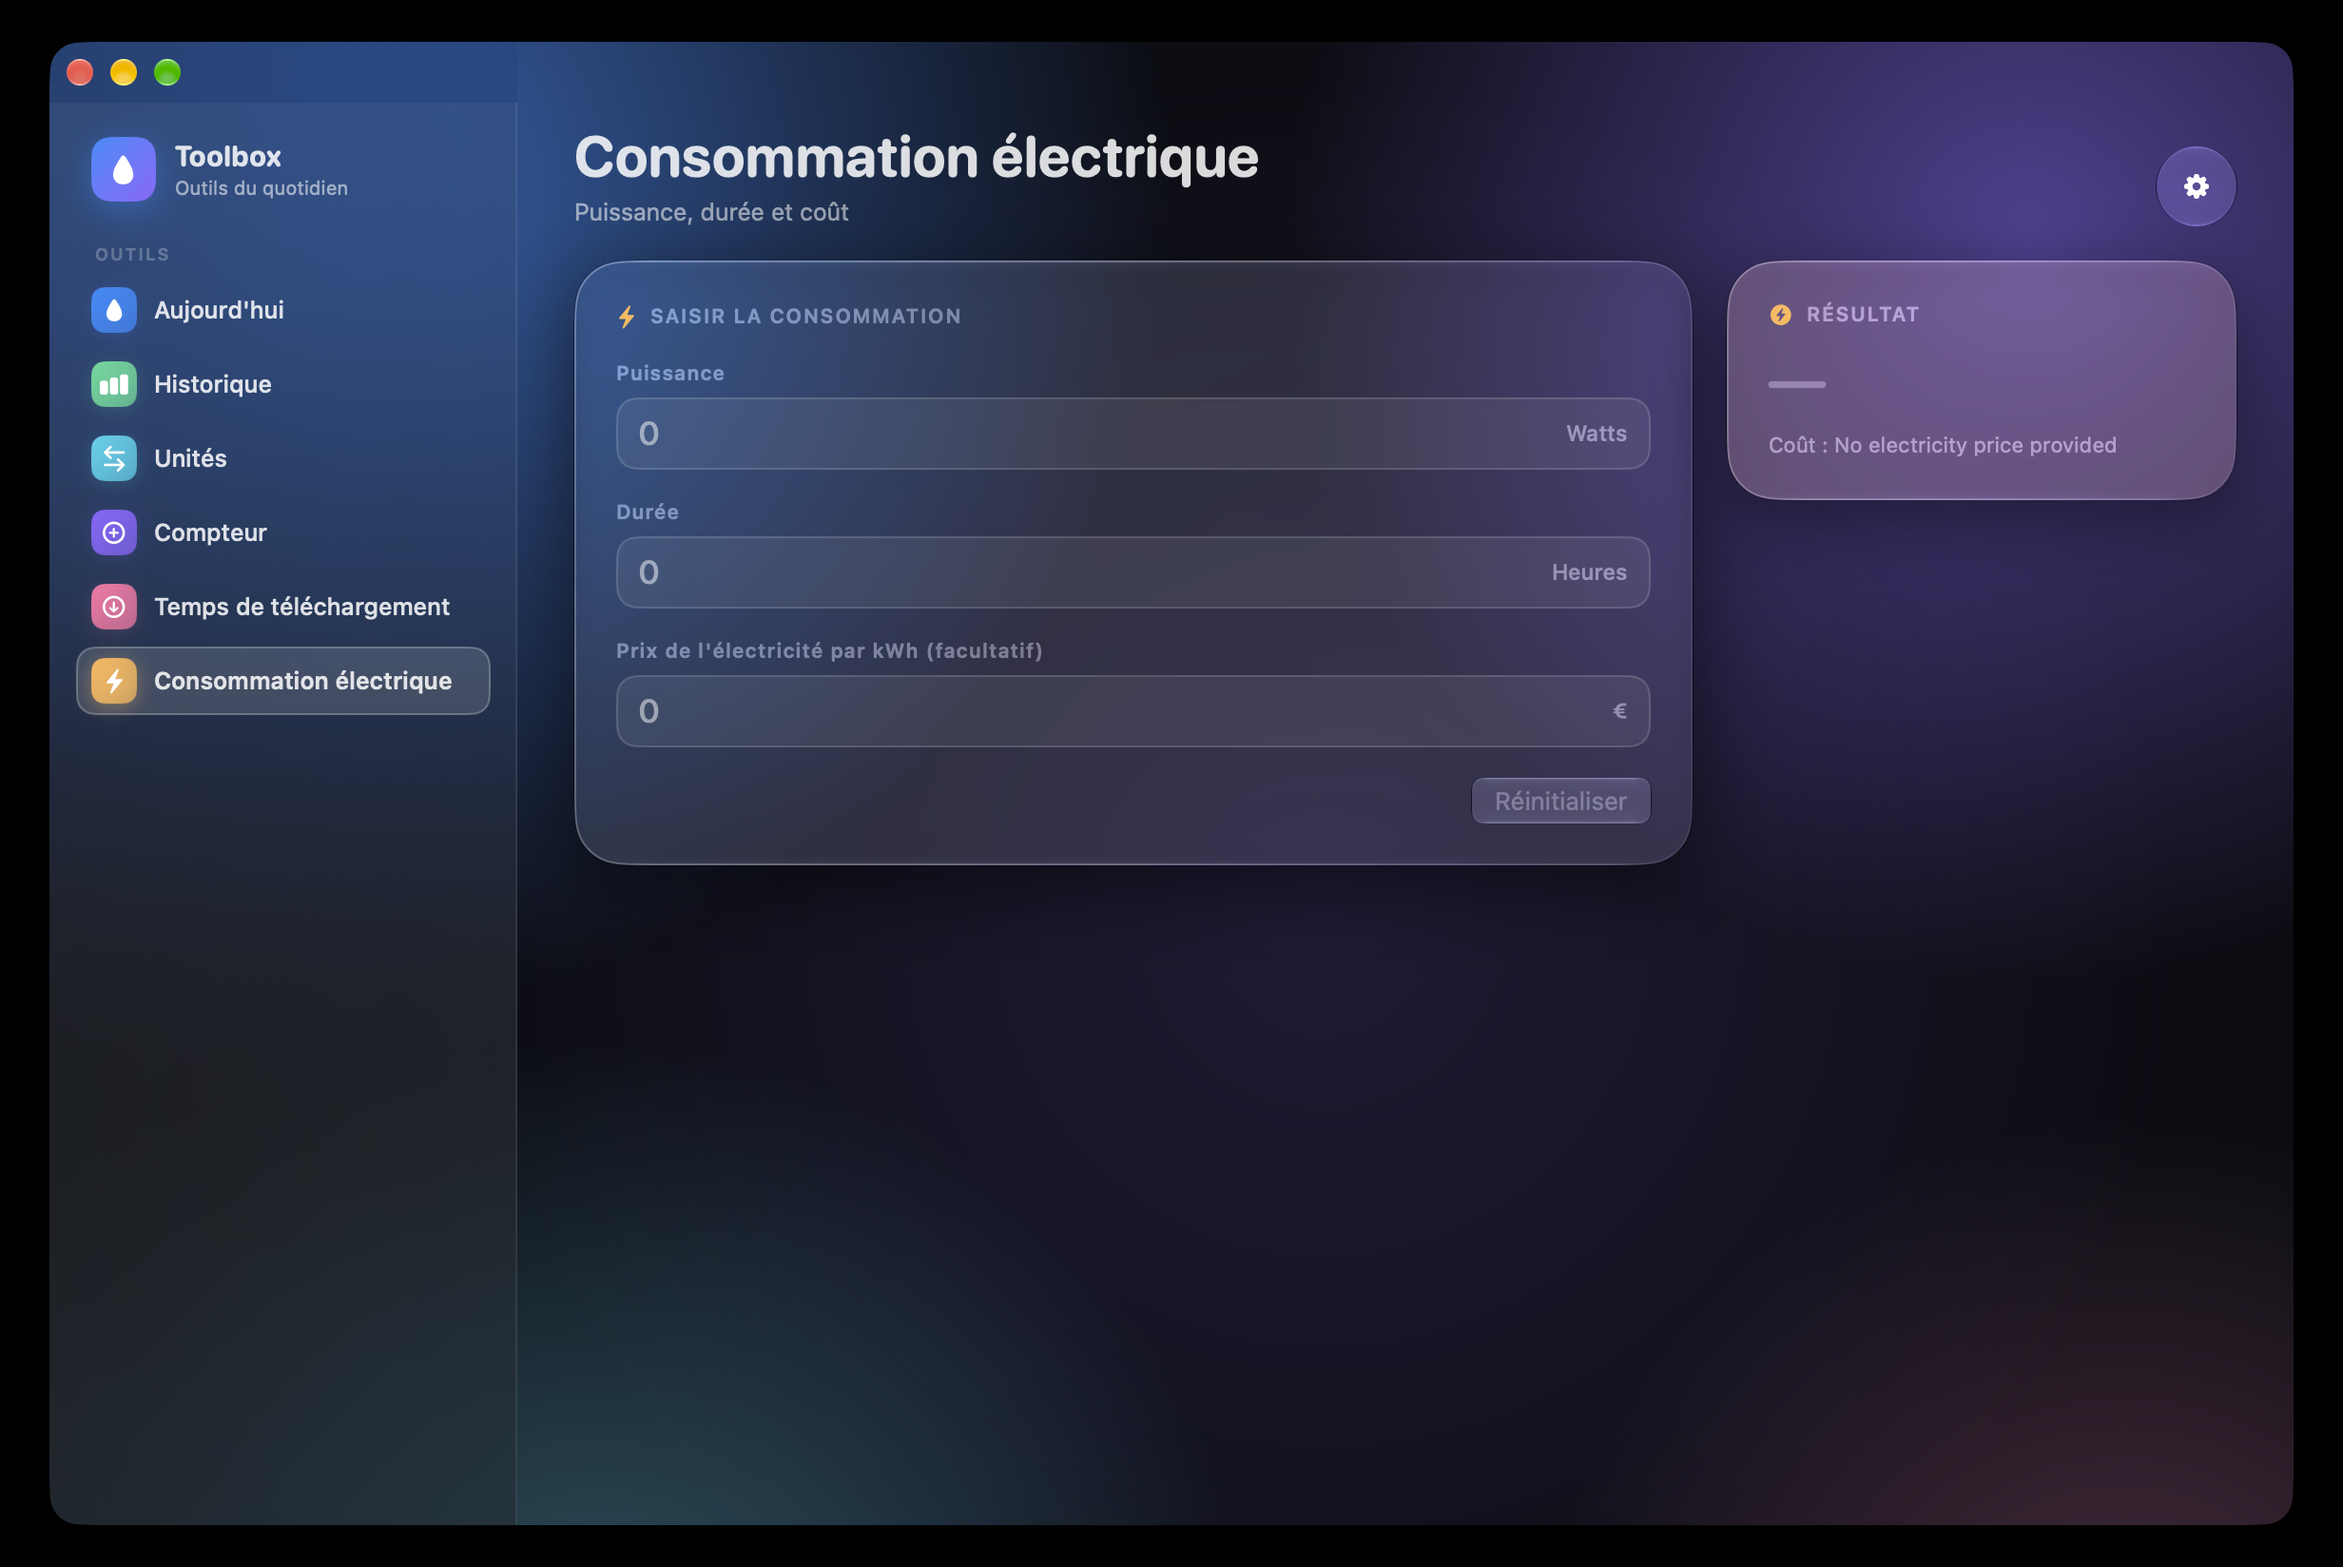
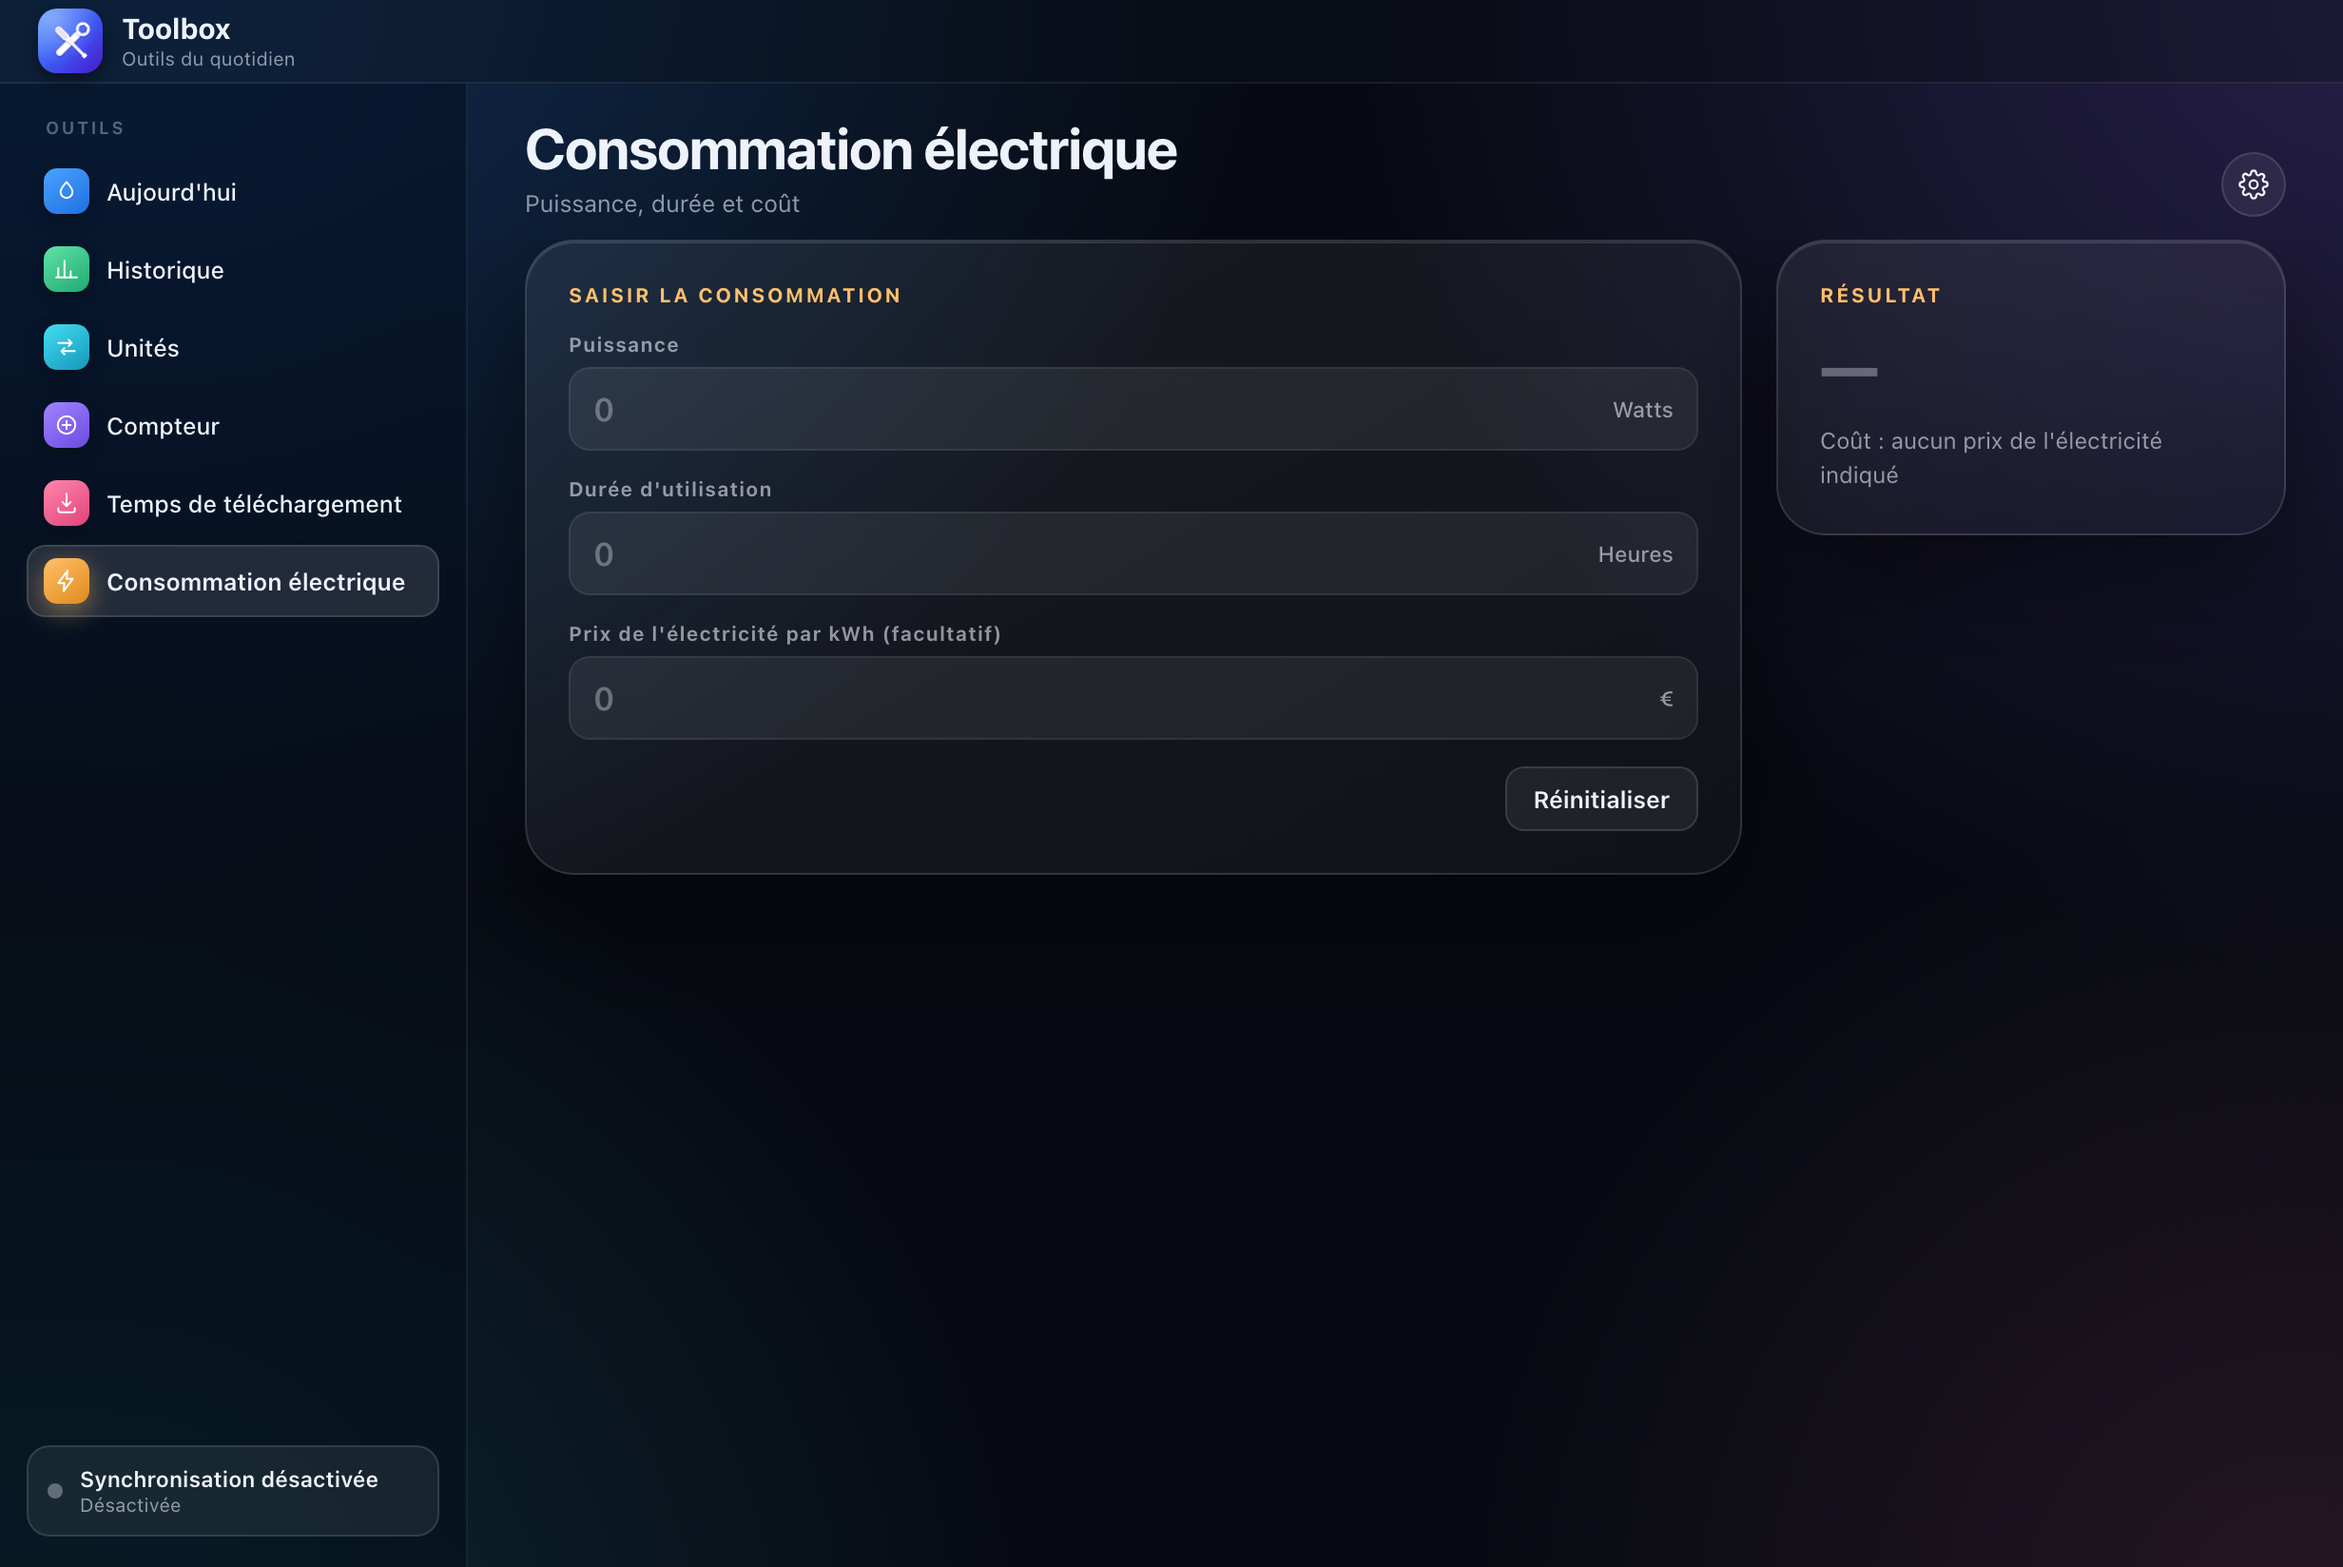
Use Windows-rendered screenshots for the Store listing
Certification rejected the previous images because they showed macOS window
controls (policy 10.1.1.3). Capture the six tabs in all four languages from the
Windows interface and record the rejection and the resubmission in the Store
documentation.

diff --git a/windows/scripts/capture-store-screenshots.js b/windows/scripts/capture-store-screenshots.js
@@ -1,0 +1,176 @@
+'use strict'
+
+// Renders the Microsoft Store screenshots from the real Windows interface.
+// Run from the windows directory:
+//   node_modules/.bin/electron scripts/capture-store-screenshots.js
+//
+// The window is frameless and rendered at 2x, so the PNGs are 2464 x 1648 and
+// contain no window chrome from the host operating system.
+
+const { app, BrowserWindow, ipcMain } = require('electron')
+const path = require('node:path')
+const os = require('node:os')
+const fs = require('node:fs')
+
+const { ToolboxStore } = require('../src/store')
+const { UpdateService } = require('../src/updater')
+
+const VIEWPORT = { width: 2464, height: 1648 }
+const LANGUAGES = ['de', 'en', 'es', 'fr']
+const TABS = [
+  { id: 'today', name: '01-today' },
+  { id: 'history', name: '02-history' },
+  { id: 'units', name: '03-units' },
+  { id: 'counter', name: '04-counter' },
+  { id: 'download', name: '05-download' },
+  { id: 'energy', name: '06-energy' },
+]
+
+app.commandLine.appendSwitch('force-device-scale-factor', '1')
+app.disableHardwareAcceleration()
+
+const windowsRoot = path.join(__dirname, '..')
+const outputRoot = path.join(windowsRoot, 'store', 'screenshots')
+const version = require(path.join(windowsRoot, 'package.json')).version
+const tempRoot = fs.mkdtempSync(path.join(os.tmpdir(), 'toolbox-screenshots-'))
+
+app.setName('Toolbox')
+app.setPath('userData', path.join(tempRoot, 'userData'))
+
+let store
+let updater
+
+const wait = ms => new Promise(resolve => setTimeout(resolve, ms))
+
+function syncStatus() {
+  return {
+    enabled: false,
+    running: false,
+    isSearching: false,
+    peerCount: 0,
+    peers: [],
+    lastSync: null,
+    deviceName: os.hostname() || 'Windows-PC',
+    syncName: '',
+    discoveryError: null,
+  }
+}
+
+function statePayload() {
+  return {
+    ...store.getState(),
+    sync: syncStatus(),
+    version,
+    platform: 'win32',
+  }
+}
+
+function registerIpc() {
+  ipcMain.handle('app:state', () => statePayload())
+  ipcMain.handle('app:reload', () => undefined)
+  ipcMain.handle('update:state', () => updater.state())
+  ipcMain.handle('update:check', () => updater.state())
+  ipcMain.handle('update:install', () => updater.state())
+  ipcMain.handle('update:set-automatic', () => updater.state())
+
+  const stateChannels = [
+    'water:add',
+    'water:undo',
+    'water:reset',
+    'water:set-sizes',
+    'counter:increment',
+    'counter:decrement',
+    'counter:reset',
+    'counter:undo',
+    'counter:set-rate',
+    'counter:toggle-auto',
+    'counter:save',
+    'counter:load',
+    'counter:delete',
+    'sync:set-enabled',
+    'sync:sync-now',
+    'sync:set-name',
+  ]
+  for (const channel of stateChannels) {
+    ipcMain.handle(channel, () => statePayload())
+  }
+}
+
+async function waitForPage(win) {
+  await win.webContents.executeJavaScript(
+    'document.fonts && document.fonts.ready ? document.fonts.ready.then(() => true) : true'
+  )
+  await wait(600)
+}
+
+async function capture(win) {
+  for (const language of LANGUAGES) {
+    await win.webContents.executeJavaScript(
+      `localStorage.setItem('toolbox.locale', ${JSON.stringify(language)})`
+    )
+
+    const loaded = new Promise(resolve => win.webContents.once('did-finish-load', resolve))
+    win.webContents.reload()
+    await loaded
+    await waitForPage(win)
+
+    const directory = path.join(outputRoot, language)
+    fs.mkdirSync(directory, { recursive: true })
+
+    for (const tab of TABS) {
+      await win.webContents.executeJavaScript(
+        `document.querySelector('.nav-row[data-tab="${tab.id}"]').click()`
+      )
+      await wait(450)
+
+      const image = await win.webContents.capturePage()
+      const { width, height } = image.getSize()
+      fs.writeFileSync(path.join(directory, `${language}-${tab.name}.png`), image.toPNG())
+      console.log(`${language}/${tab.name}: ${width}x${height}`)
+    }
+  }
+}
+
+async function run() {
+  store = new ToolboxStore({ filePath: path.join(tempRoot, 'data.json') })
+  updater = new UpdateService({
+    filePath: path.join(tempRoot, 'updates.json'),
+    currentVersion: version,
+    isPackaged: false,
+    storeManaged: true,
+  })
+
+  registerIpc()
+
+  const win = new BrowserWindow({
+    width: VIEWPORT.width,
+    height: VIEWPORT.height,
+    useContentSize: true,
+    frame: false,
+    show: false,
+    backgroundColor: '#080b13',
+    webPreferences: {
+      preload: path.join(windowsRoot, 'preload.js'),
+      contextIsolation: true,
+      nodeIntegration: false,
+      sandbox: true,
+      backgroundThrottling: false,
+      offscreen: true,
+      zoomFactor: 2,
+    },
+  })
+
+  await win.loadFile(path.join(windowsRoot, 'renderer', 'index.html'))
+  await waitForPage(win)
+  await capture(win)
+
+  win.destroy()
+  store.dispose()
+  fs.rmSync(tempRoot, { recursive: true, force: true })
+  app.quit()
+}
+
+app.whenReady().then(run).catch(error => {
+  console.error(error)
+  app.exit(1)
+})

diff --git a/windows/store/README.md b/windows/store/README.md
@@ -281,12 +281,20 @@ The screenshots show the interface in the respective Store language. The images
 were produced with the localized app; the German listing still uses the German
 screenshots.
 
-The set was recaptured on 19 November 2026 from Toolbox 3.7.1 at a window size of
-1180 × 780 points: one screenshot per tab and language, all distinct and in tab
-order. It has been uploaded for all four languages to Submission 3 in the order of the
-filenames, and Submission 3 was submitted for certification on 19 November 2026.
-The live listing still shows the older set, which repeats “Units” in slots 1 and
-2 and has no screenshot for today or history, until certification completes.
+The set from 19 November 2026 was rejected in certification on 20 November 2026
+(policy **10.1.1.3, Inaccurate Representation**): it had been captured from the
+Mac app and showed macOS window controls. The screenshots are now rendered from
+the Windows interface, including the Windows title bar and the app logo, at
+2464 × 1648. Regenerate them from `windows` with:
+
+```bash
+node_modules/.bin/electron scripts/capture-store-screenshots.js
+```
+
+The script renders the six tabs in German, English, Spanish and French and
+writes them to `windows/store/screenshots/<language>/`. Upload the new set for
+all four languages; the live listing keeps the older set until the corrected
+submission passes certification.
 
 The **package languages** in `windows/package.json` are `de-DE`, `en-US`,
 `es-ES` and `fr-FR`. The AppX `Toolbox-3.6.0.appx` validated in Partner Center
@@ -389,4 +397,8 @@ IARC 3+, Microsoft Store 3+. The IARC terms of use were accepted.
       (`https://apps.microsoft.com/detail/9P4FPTHZHVJD`) – still open
 - [x] Replace the Store screenshots in Partner Center with the six-tab set
       (Submission 3, 19 Nov 2026, all four languages)
-- [x] Submit Submission 3 for certification so the new screenshots go live
+- [x] Submit Submission 3 for certification (rejected 20 Nov 2026, 10.1.1.3)
+- [x] Re-render the six screenshots per language from the Windows interface
+      (21 Nov 2026, `scripts/capture-store-screenshots.js`)
+- [x] Upload the Windows-rendered screenshots for all four languages and
+      resubmit (21 Nov 2026, Submission 3 with `Toolbox-3.7.2.appx`)

diff --git a/SUBMISSION-STATUS.md b/SUBMISSION-STATUS.md
@@ -2,6 +2,14 @@
 
 As of: **17 November 2026**
 
+> **21 November 2026:** Submission 3 (screenshot update) was rejected in
+> certification on 20 November 2026 under policy **10.1.1.3, Inaccurate
+> Representation**, because the images showed macOS window controls. The Store
+> still serves the last certified package. The six screenshots per language were
+> re-rendered from the Windows interface and uploaded for all four languages.
+> Submission 3 (with `Toolbox-3.7.2.appx`) was resubmitted for certification on
+> 21 November 2026; see [`windows/store/README.md`](windows/store/README.md).
+
 ## Summary
 
 **Toolbox 3.4.0 is certified and has been published in the Microsoft Store since
